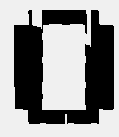
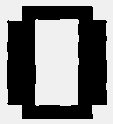
digit reveal optimization

Changed region(s): [[0.0531, 0.0484, 0.9823, 0.9677]]

diff --git a/captcha/solveCaptcha.py b/captcha/solveCaptcha.py
@@ -32,7 +32,7 @@ else:
     s = load_images( './captcha/small-digits/')
 
 #TODO tirar duplicata
-def positions(target, threshold=0.80,img = None):
+def positions(target, threshold=0.88,img = None):
     if img is None:
         img = printSreen()
     result = cv2.matchTemplate(img,target,cv2.TM_CCOEFF_NORMED)
@@ -50,7 +50,7 @@ def positions(target, threshold=0.80,img = None):
     rectangles, weights = cv2.groupRectangles(rectangles, 1, 0.2)
     return rectangles
 
-def getDigits(d,img, gray=True, threshold=0.81):
+def getDigits(d,img, gray=True, threshold = 1):
     digits = []
     for i in range(10):
         if gray:
@@ -60,6 +60,7 @@ def getDigits(d,img, gray=True, threshold=0.81):
 
         p = positions(template,img=img,threshold=threshold)
         if len (p) > 0:
+            print('digit {} found!, x: {}'.format(i, p[0][0]))
             digits.append({'digit':str(i),'x':p[0][0]})
 
     def getX(e):
@@ -158,35 +159,30 @@ def r():
     return randint(0,5)
 
 def moveToReveal(popup_pos):
-    # time.sleep(10)
+    # time.sleep(5)
     # return
     x,y,_,_ = popup_pos
-    t = 1.5
-    offset_x = 80
+    speed = 0.6
+    offset_x = 30
     offset_y = 140
-    w = 413
+    w = 465
     h = 150
-    passes = 11
+    passes = 9
+    #11
     increment_x = w/passes
     increment_y = h/passes
     start_x = x + offset_x + r()
     start_y = y + offset_y + r()
-    pyautogui.moveTo(start_x,start_y,t)
-    pyautogui.moveTo(start_x,start_y+h,t)
-    pyautogui.moveTo(start_x + w,start_y + h,t)
-    pyautogui.moveTo(start_x + w,start_y,t)
+    pyautogui.moveTo(start_x,start_y,speed)
+    pyautogui.moveTo(start_x,start_y+h,speed)
+    pyautogui.moveTo(start_x + w,start_y + h,speed)
+    pyautogui.moveTo(start_x + w,start_y,speed)
     for i in range(passes):
         x = start_x + i * increment_x + r()
         y = start_y + h * (i % 2) + r()
-        pyautogui.moveTo(x,y,t)
-    pyautogui.moveTo(start_x+ w + r(),start_y + h + r(),t)
+        pyautogui.moveTo(x,y,speed)
+    pyautogui.moveTo(start_x+ w + r(),start_y + h + r(),speed)
     time.sleep(1)
-
-def lookAtCaptcha():
-    screenshot = printSreen()
-    popup_pos = positions(d['robot'],img=screenshot)
-    img = captchaImg(screenshot, popup_pos[0])
-    return img
 
 # def generateDiff(first,position):
     # gray_first = cv2.cvtColor(first, cv2.COLOR_BGR2GRAY)
@@ -204,21 +200,43 @@ def lookAtCaptcha():
     # cv2.imshow('img',cp)
     # return diff
 
-def preProcess(img):
+def preProcess(img,popup_pos):
+    img = captchaImg(img, popup_pos[0])
     img = cv2.cvtColor(img, cv2.COLOR_BGR2GRAY)
     t,img = cv2.threshold(img,170,240,cv2.THRESH_BINARY_INV)
     return img
+
 def add(img0, img1):
     return cv2.bitwise_and(img0, img1, mask = None)
 
 def getDiff(data):
-    if data[0] is None:
-        img0 = preProcess(lookAtCaptcha())
-        img1 = preProcess(lookAtCaptcha())
-        data[0] = add(img0,img1)
+    start = time.time()
+    screenshots = []
     while data[1]:
-        now = preProcess(lookAtCaptcha())
-        data[0] = add(data[0],now)
+        screenshot = printSreen()
+        screenshots.append(screenshot)
+
+    end = time.time()
+    elapsed = end-start
+    start = end
+    i = len(screenshots)
+
+    print('{} samples taken in {} seconds({}/s)'.format(i,elapsed,i/elapsed))
+    popup_pos = positions(d['robot'],img=screenshot)
+    preprocessed_data = [preProcess(s, popup_pos) for s in screenshots]
+    end = time.time()
+    elapsed = end-start
+    start = end
+    print('Processed {} images in {} seconds'.format(len(preprocessed_data),elapsed))
+    result = preprocessed_data[0]
+    for sample in preprocessed_data:
+        result = add(result, sample)
+    end = time.time()
+    elapsed = end-start
+    print('Combined {} images in {} seconds'.format(len(preprocessed_data),elapsed))
+    # cv2.imshow('result',result)
+    # cv2.waitKey(5000)
+    data[0] = result
     return
         # time.sleep()
 
@@ -241,7 +259,7 @@ def getBackgroundText():
     if __name__ == '__main__':
         path = "./tmp/{}.png".format(str(time.time()))
         cv2.imwrite(path,data[0])
-    digits = getDigits(d,data[0])
+    digits = getDigits(d,data[0],threshold = 0.9)
     # cv2.imshow('test',data[0])
     # cv2.waitKey(0)
     # img = captchaImg(screenshot, popup_pos[0])
